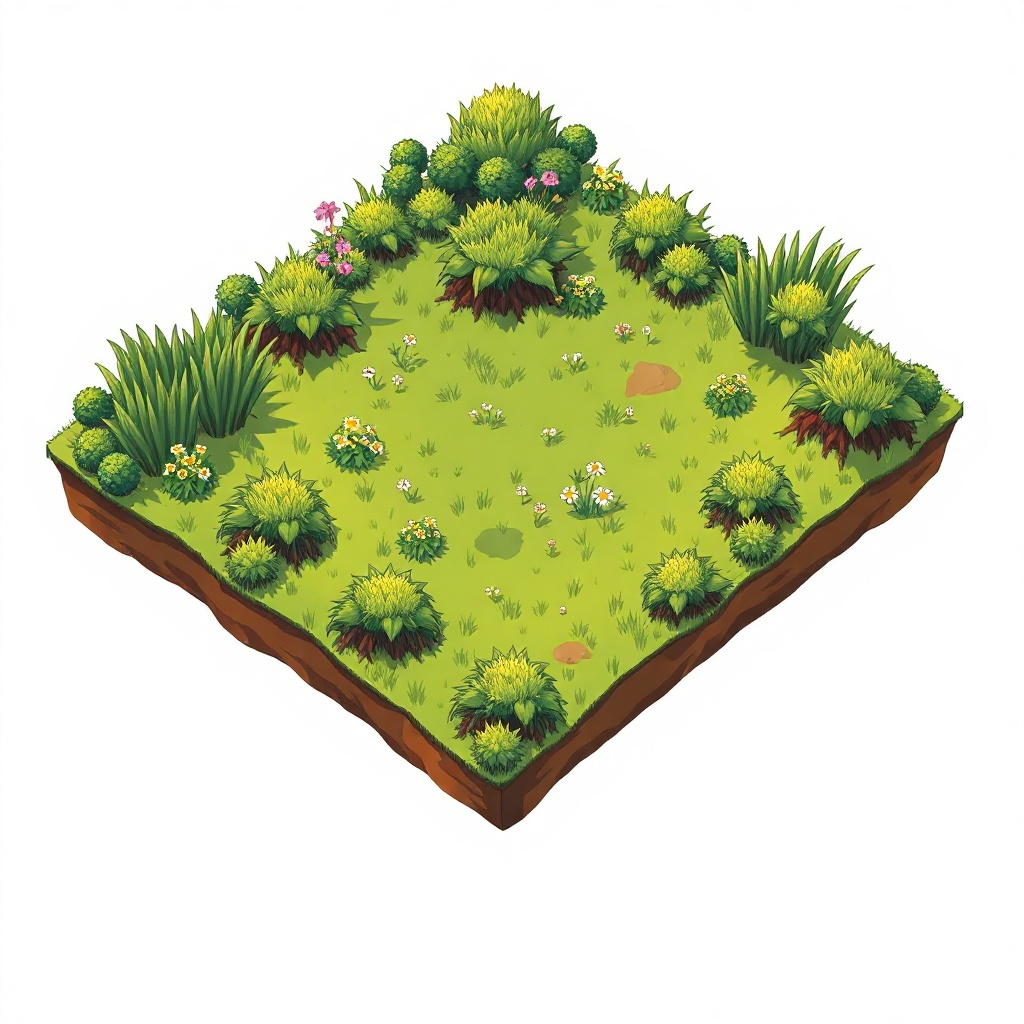
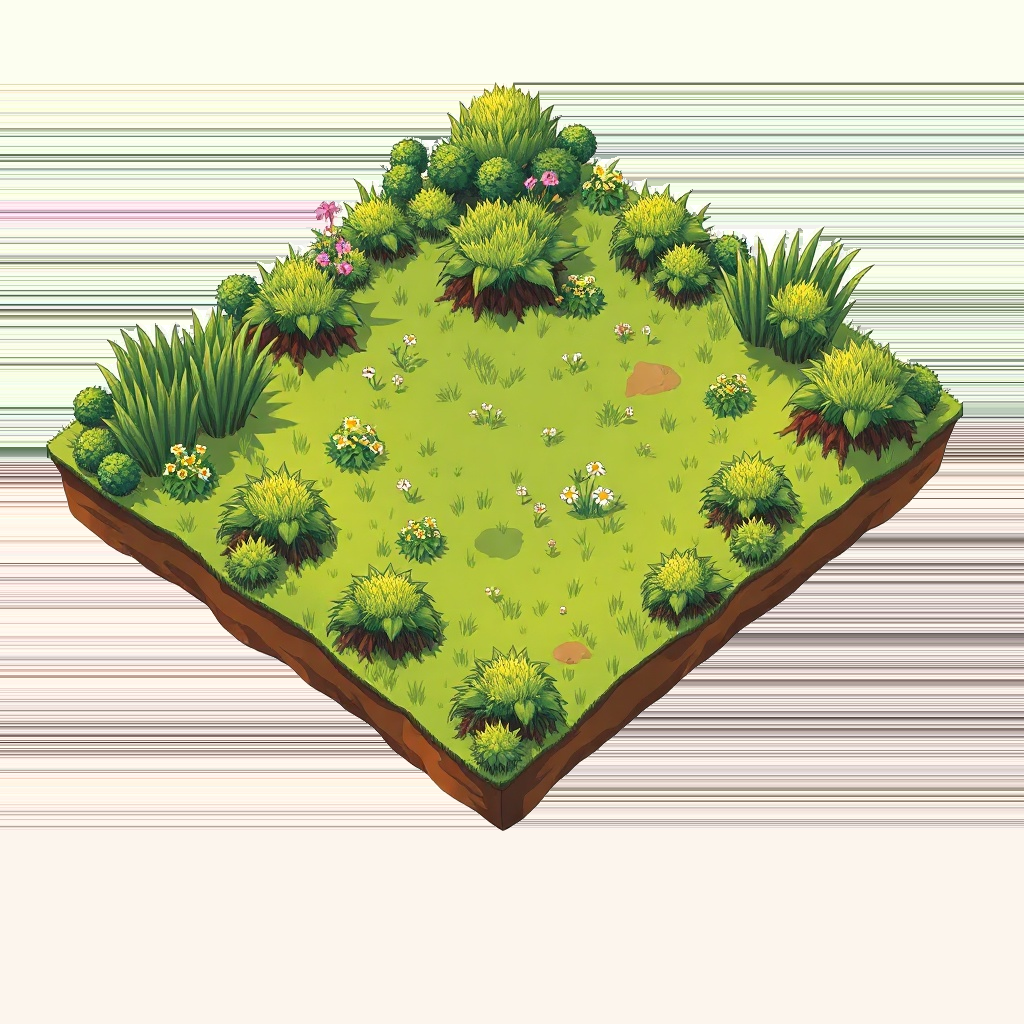
Fix isometric tile gaps: edge-bleed pipeline + transparent tile materials
Root cause: FAL flux-schnell generates 1024x1024 images with ~64% white
border around the actual content. When mapped to 62x62 tiles with 60px
spacing, the white border created visible gaps between tiles.

- Added edge_bleed.py: fills white/near-white border pixels with nearest
  non-white content color (grass: 64% white -> 0.1%, water: 13% -> 0.2%)
- Added asset_pipeline.py: full pipeline for generating + post-processing
  game assets via FAL (generation -> birefnet -> edge-bleed -> save)
- Updated frontend tile material: transparent: true + depthWrite: false
  so remaining sub-1% near-white pixels render as transparent specks
  instead of visible gaps
- Updated FAL prompt references: tiles must use 'content fills entire
  canvas edge to edge, no borders no margins no padding'
- edge_bleed.py uses pure PIL (no numpy/scipy/cv2 dependency)

Changed region(s): [[0.5, 0.0625, 1.0, 0.8125], [0.0, 0.0625, 0.4688, 0.8125]]

diff --git a/frontend/index.html b/frontend/index.html
@@ -580,7 +580,7 @@ function buildGround() {
   for (const type of ['grass', 'dirt', 'water']) {
     const tiles = byType[type];
     if (tiles.length === 0) continue;
-    const inst = new THREE.InstancedMesh(geo, new THREE.MeshBasicMaterial({ map: spriteTextures[type], transparent: false }), tiles.length);
+    const inst = new THREE.InstancedMesh(geo, new THREE.MeshBasicMaterial({ map: spriteTextures[type], transparent: true, depthWrite: false }), tiles.length);
     inst.userData.isGround = true;
     tiles.forEach((t, i) => {
       dummy.position.set(t.x, -0.5, t.z);

diff --git a/asset_pipeline.py b/asset_pipeline.py
@@ -1,0 +1,214 @@
+#!/usr/bin/env python3
+"""
+Age of Agents — Asset Pipeline
+===============================
+Generates isometric game assets via FAL, then post-processes them.
+
+Pipeline:
+  1. Generate image via FAL flux-schnell (1024x1024, white bg)
+  2. Download result
+  3. Run birefnet background removal → RGBA PNG with transparency
+  4. Edge-bleed: fill any remaining white/near-white border pixels
+  5. Save as RGBA PNG to assets/isometric/
+
+Usage:
+  python3 asset_pipeline.py --prompt "..." --output iso_grass.png
+  python3 asset_pipeline.py --prompt "..." --output iso_agent_idle.png --no-crop
+
+Flags:
+  --prompt TEXT     FAL generation prompt
+  --output NAME     Output filename in assets/isometric/ (e.g. iso_grass.png)
+  --no-crop         Skip edge-bleed (for sprites that need chroma key transparency)
+  --no-birefnet     Skip background removal (if image is already transparent)
+"""
+
+import os, sys, json, tempfile, argparse
+from pathlib import Path
+import httpx
+
+FAL_KEY = os.environ.get("FAL_KEY", "")
+OUTPUT_DIR = Path("assets/isometric")
+OUTPUT_DIR.mkdir(parents=True, exist_ok=True)
+
+FAL_GEN_URL = "https://fal.run/fal-ai/flux/schnell"
+FAL_BIR_URL = "https://fal.run/fal-ai/birefnet/v2"
+
+# ── Prompt templates ──────────────────────────────────────────────────────
+
+TILE_PROMPT = (
+    "Princess Mononoke Studio Ghibli isometric game tile, "
+    "dense dark ink outlines, hand-drawn cel animation, flat cel-shaded colors, "
+    "{description}, "
+    "content fills entire canvas edge to edge, no borders no margins no padding, "
+    "seamless tileable texture, 64x64 pixel game art style, "
+    "square frame, top-down game tile, NOT transparent NOT isolated on white, "
+    "NOT realistic NOT 3D NOT painted"
+)
+
+SPRITE_PROMPT = (
+    "Princess Mononoke Studio Ghibli style, "
+    "dense dark ink outlines, hand-drawn cel animation, flat cel-shaded colors, "
+    "visible pencil sketch lines, {description}, "
+    "isolated on pure white background, game sprite, centered, "
+    "NOT realistic NOT 3D NOT painted"
+)
+
+
+def fal_generate(prompt: str, output_path: str) -> str:
+    """Generate image via FAL, returns URL to result."""
+    payload = {
+        "prompt": prompt,
+        "image_size": {"width": 1024, "height": 1024},
+        "num_images": 1,
+        "enable_safety_checker": False,
+    }
+    print(f"  Generating via FAL...", flush=True)
+    resp = httpx.post(
+        FAL_GEN_URL,
+        headers={"Authorization": f"Key {FAL_KEY}", "Content-Type": "application/json"},
+        json=payload,
+        timeout=120,
+    )
+    resp.raise_for_status()
+    data = resp.json()
+    img_url = data["images"][0]["url"]
+    print(f"  Generated: {img_url[:60]}...", flush=True)
+    return img_url
+
+
+def download_image(url: str) -> bytes:
+    """Download image bytes from URL."""
+    resp = httpx.get(url, timeout=30)
+    resp.raise_for_status()
+    return resp.content
+
+
+def birefnet_remove_bg(image_bytes: bytes) -> bytes:
+    """Remove background via birefnet, returns RGBA PNG bytes."""
+    print(f"  Removing background via birefnet...", flush=True)
+    resp = httpx.post(
+        FAL_BIR_URL,
+        headers={"Authorization": f"Key {FAL_KEY}"},
+        files={"image": ("input.png", image_bytes, "image/png")},
+        timeout=60,
+    )
+    resp.raise_for_status()
+    # birefnet returns a URL to the result
+    result_url = resp.json()["image"]["url"]
+    return download_image(result_url)
+
+
+def edge_bleed_pil(image_bytes: bytes) -> bytes:
+    """Fill white/near-white border pixels with nearest content color."""
+    from PIL import Image, ImageDraw
+    import io
+
+    img = Image.open(io.BytesIO(image_bytes))
+    w, h = img.size
+    if img.mode == "RGBA":
+        # Use RGB for edge detection
+        rgb = img.convert("RGB")
+        pixels = rgb.load()
+    else:
+        pixels = img.load()
+
+    result = img.copy()
+    if result.mode == "RGBA":
+        rpixels = result.load()
+        # Also create RGB version for edge detection
+        rgb_result = result.convert("RGB")
+        rpixels_rgb = rgb_result.load()
+    else:
+        result = img.copy()
+        rpixels = result.load()
+        rpixels_rgb = rpixels
+
+    draw = ImageDraw.Draw(result)
+    THRESHOLD = 240
+
+    def is_white(p):
+        return p[0] > THRESHOLD and p[1] > THRESHOLD and p[2] > THRESHOLD
+
+    # Phase 1: fill left/right margins per row
+    for y in range(h):
+        left_x = 0
+        while left_x < w and is_white(pixels[left_x, y]):
+            left_x += 1
+        if 0 < left_x < w:
+            draw.rectangle([0, y, left_x - 1, y], fill=pixels[left_x, y])
+
+        right_x = w - 1
+        while right_x >= 0 and is_white(pixels[right_x, y]):
+            right_x -= 1
+        if right_x < w - 1 and right_x >= 0:
+            draw.rectangle([right_x + 1, y, w - 1, y], fill=pixels[right_x, y])
+
+    # Phase 2: fill top/bottom margins per column
+    for x in range(w):
+        top_y = 0
+        while top_y < h and is_white(pixels[x, top_y]):
+            top_y += 1
+        if 0 < top_y < h:
+            draw.rectangle([x, 0, x, top_y - 1], fill=pixels[x, top_y])
+
+        bottom_y = h - 1
+        while bottom_y >= 0 and is_white(pixels[x, bottom_y]):
+            bottom_y -= 1
+        if bottom_y < h - 1 and bottom_y >= 0:
+            draw.rectangle([x, bottom_y + 1, x, h - 1], fill=pixels[x, bottom_y])
+
+    buf = io.BytesIO()
+    result.save(buf, format="PNG")
+    return buf.getvalue()
+
+
+def process_asset(prompt: str, output_name: str, do_birefnet: bool, do_bleed: bool):
+    """Full pipeline: generate → (birefnet) → (edge-bleed) → save."""
+    out_path = OUTPUT_DIR / output_name
+
+    # 1. Generate
+    img_url = fal_generate(prompt, str(out_path))
+    img_bytes = download_image(img_url)
+
+    # 2. Background removal (for sprites that need transparency)
+    if do_birefnet:
+        img_bytes = birefnet_remove_bg(img_bytes)
+
+    # 3. Edge-bleed (for tiles — fills white borders with content)
+    if do_bleed:
+        from PIL import Image
+        import io
+
+        pre = Image.open(io.BytesIO(img_bytes))
+        pre_size = pre.size
+        img_bytes = edge_bleed_pil(img_bytes)
+
+    # 4. Save
+    with open(out_path, "wb") as f:
+        f.write(img_bytes)
+
+    from PIL import Image
+    import io
+    final = Image.open(io.BytesIO(img_bytes))
+    print(f"  Saved {output_name} ({final.size[0]}x{final.size[1]}, mode={final.mode})")
+
+
+if __name__ == "__main__":
+    parser = argparse.ArgumentParser(description="Generate and post-process game assets")
+    parser.add_argument("--prompt", required=True, help="FAL generation prompt")
+    parser.add_argument("--output", required=True, help="Output filename (e.g. iso_grass.png)")
+    parser.add_argument("--no-crop", action="store_true", help="Skip edge-bleed for sprites")
+    parser.add_argument("--no-birefnet", action="store_true", help="Skip background removal")
+    args = parser.parse_args()
+
+    if not FAL_KEY:
+        print("ERROR: FAL_KEY not set. Set it in ~/.hermes/.env or export it.")
+        sys.exit(1)
+
+    process_asset(
+        prompt=args.prompt,
+        output_name=args.output,
+        do_birefnet=not args.no_birefnet,
+        do_bleed=not args.no_crop,
+    )
+    print("Done.")

diff --git a/edge_bleed.py b/edge_bleed.py
@@ -1,0 +1,127 @@
+#!/usr/bin/env python3
+"""Edge-bleed tile textures to remove white borders. Fast PIL-only approach."""
+
+from PIL import Image, ImageDraw
+import os
+
+THRESHOLD = 240
+iso_dir = 'assets/isometric'
+
+def edge_bleed(img, threshold=THRESHOLD):
+    w, h = img.size
+    pixels = img.load()
+    result = img.copy()
+    draw = ImageDraw.Draw(result)
+    rpixels = result.load()
+    
+    def is_white(p):
+        return p[0] > threshold and p[1] > threshold and p[2] > threshold
+    
+    # Phase 1: Fill white margins on each row by scanning only from edges inward
+    for y in range(h):
+        # Scan from left edge inward
+        left_x = 0
+        while left_x < w and is_white(pixels[left_x, y]):
+            left_x += 1
+        if left_x > 0 and left_x < w:
+            color = pixels[left_x, y]
+            draw.rectangle([0, y, left_x - 1, y], fill=color)
+        
+        # Scan from right edge inward
+        right_x = w - 1
+        while right_x >= 0 and is_white(pixels[right_x, y]):
+            right_x -= 1
+        if right_x < w - 1 and right_x >= 0:
+            color = pixels[right_x, y]
+            draw.rectangle([right_x + 1, y, w - 1, y], fill=color)
+    
+    # Phase 2: Fill white margins on each column (using edge-filled result)
+    for x in range(w):
+        top_y = 0
+        while top_y < h and is_white(rpixels[x, top_y]):
+            top_y += 1
+        if top_y > 0 and top_y < h:
+            color = rpixels[x, top_y]
+            draw.rectangle([x, 0, x, top_y - 1], fill=color)
+        
+        bottom_y = h - 1
+        while bottom_y >= 0 and is_white(rpixels[x, bottom_y]):
+            bottom_y -= 1
+        if bottom_y < h - 1 and bottom_y >= 0:
+            color = rpixels[x, bottom_y]
+            draw.rectangle([x, bottom_y + 1, x, h - 1], fill=color)
+    
+    # Verify: count remaining white pixels
+    remaining = 0
+    for y in range(h):
+        for x in range(w):
+            if is_white(rpixels[x, y]):
+                remaining += 1
+    
+    # Phase 3: If there are still white pixels (inside content), do iterative fill
+    if remaining > 0:
+        changed = True
+        iteration = 0
+        while changed and iteration < 50:
+            changed = False
+            iteration += 1
+            fills = []
+            for y in range(1, h - 1):
+                for x in range(1, w - 1):
+                    if is_white(rpixels[x, y]):
+                        for dx, dy in [(0,1),(0,-1),(1,0),(-1,0)]:
+                            np_ = rpixels[x + dx, y + dy]
+                            if not is_white(np_):
+                                fills.append((x, y, np_))
+                                break
+            for x, y, c in fills:
+                rpixels[x, y] = c
+                changed = True
+            if iteration > 2:
+                break
+    
+    return result
+
+
+if __name__ == '__main__':
+    for fname in ['iso_grass.png', 'iso_water.png']:
+        path = os.path.join(iso_dir, fname)
+        if not os.path.exists(path):
+            continue
+        img = Image.open(path)
+        w, h = img.size
+        pixels = img.load()
+        
+        # Count white
+        white_count = sum(
+            1 for y in range(h) for x in range(w)
+            if pixels[x, y][0] > THRESHOLD and pixels[x, y][1] > THRESHOLD and pixels[x, y][2] > THRESHOLD
+        )
+        total = w * h
+        print(f'{fname}: {w}x{h}, white={white_count}/{total} ({100*white_count/total:.1f}%)')
+        
+        if white_count / total < 0.05:
+            print(f'  skipping')
+            continue
+        
+        print('  processing...', end=' ', flush=True)
+        result = edge_bleed(img)
+        result.save(path)
+        
+        rpixels = result.load()
+        white_rem = sum(
+            1 for y in range(h) for x in range(w)
+            if rpixels[x, y][0] > THRESHOLD and rpixels[x, y][1] > THRESHOLD and rpixels[x, y][2] > THRESHOLD
+        )
+        print(f'white: {white_count} -> {white_rem}')
+    
+    # Process dirt (should be minimal)
+    path = os.path.join(iso_dir, 'iso_dirt.png')
+    img = Image.open(path)
+    pixels = img.load()
+    w, h = img.size
+    white_count = sum(
+        1 for y in range(h) for x in range(w)
+        if pixels[x, y][0] > THRESHOLD and pixels[x, y][1] > THRESHOLD and pixels[x, y][2] > THRESHOLD
+    )
+    print(f'iso_dirt.png: white={white_count}/{w*h} ({100*white_count/(w*h):.1f}%)')
